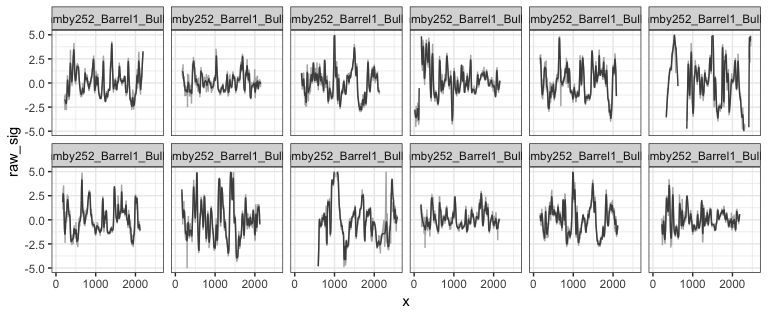
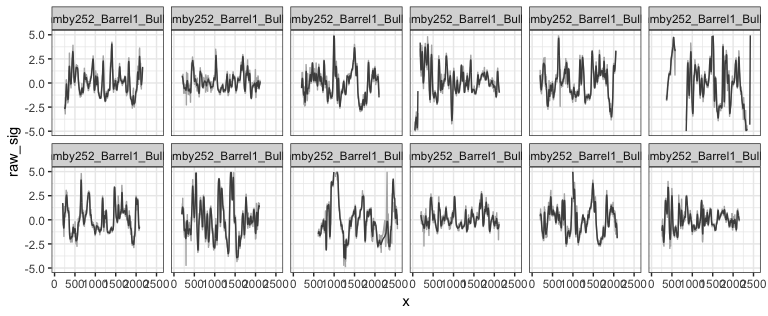
readme updated

diff --git a/README.md b/README.md
@@ -1,7 +1,7 @@
 ---
 title: "bulletxtrctr"
-author: "Heike Hofmann, Susan Vanderplas, Ganesh Krishnan"
-date: "July 31, 2018"
+author: "Heike Hofmann, Susan Vanderplas, Eric Hare,  Ganesh Krishnan"
+date: "August 02, 2018"
 output: 
   html_document:
     keep_md: true
@@ -10,7 +10,7 @@ output:
 [![CRAN Status](http://www.r-pkg.org/badges/version/bulletxtrctr)](https://cran.r-project.org/package=bulletxtrctr) [![CRAN RStudio mirror downloads](http://cranlogs.r-pkg.org/badges/bulletxtrctr)](http://www.r-pkg.org/pkg/bulletxtrctr) 
 [![Project Status: Active – The project has reached a stable, usable state and is being actively developed.](http://www.repostatus.org/badges/latest/active.svg)](http://www.repostatus.org/#active)
 [![Travis-CI Build Status](https://travis-ci.org/heike/bulletxtrctr.svg?branch=master)](https://travis-ci.org/isu-csafe/bulletxtrctr)
-[![Last-changedate](https://img.shields.io/badge/last%20change-2018--07--31-yellowgreen.svg)](/commits/master)
+[![Last-changedate](https://img.shields.io/badge/last%20change-2018--08--02-yellowgreen.svg)](/commits/master)
 
 
 Analyze bullet striations using nonparametric methods
@@ -92,7 +92,11 @@ bullets <- bullets %>% mutate(
 
 ```r
   bullets <- bullets %>% mutate(
-    grooves = ccdata %>% purrr::map(.f = cc_locate_grooves, method = "middle", middle=80)
+    grooves = ccdata %>% 
+      purrr::map(.f = cc_locate_grooves, method = "rollapply", 
+                 adjust = 30)
+ #         purrr::map(.f = cc_locate_grooves, method = "quadratic")
+  #    purrr::map(.f = cc_locate_grooves, method = "middle", middle=80)
   )
 
 bullets$grooves[[1]]
@@ -100,8 +104,7 @@ bullets$grooves[[1]]
 
 ```
 ## $groove
-##       10%       90% 
-##  277.8125 2189.3750 
+## [1]  246.875 2159.375
 ## 
 ## $plot
 ```
@@ -116,7 +119,9 @@ bullets <- bullets %>% mutate(
   sigs = purrr::map2(
     .x = ccdata, .y = grooves, 
     .f = function(x, y) {
-      cc_get_signature(ccdata=x, grooves = y, span1 = 0.75, span2=0.03)})
+      cc_get_signature(
+        ccdata=x, grooves = y, span1 = 0.75, span2=0.03)
+      })
 )
 ```
 
@@ -142,7 +147,7 @@ signatures %>%
   lands <- unique(bullets$source)
   comparisons <- data.frame(
     expand.grid(b1=lands, b2=lands), stringsAsFactors = FALSE)
-  comparisons <- comparisons %>% filter(b1 != b2)
+#  comparisons <- comparisons %>% filter(b1 != b2)
   
   comparisons <- comparisons %>% mutate(
     results = purrr::map2(.x = b1, .y = b2, .f = function(xx, yy) {
@@ -160,7 +165,7 @@ signatures %>%
 ```r
 comparisons <- comparisons %>% mutate(
   ccf = results %>% purrr::map_dbl(.f = function(x) x$ccf),
-  lag = results %>% purrr::map_dbl(.f = function(x) x$lag),
+  lag = results %>% purrr::map_dbl(.f = function(x) x$lag) #,
 #  cms = results %>% purrr::map_dbl(.f = function(x) x$maxCMS)
 )
 comparisons <- comparisons %>% mutate(
